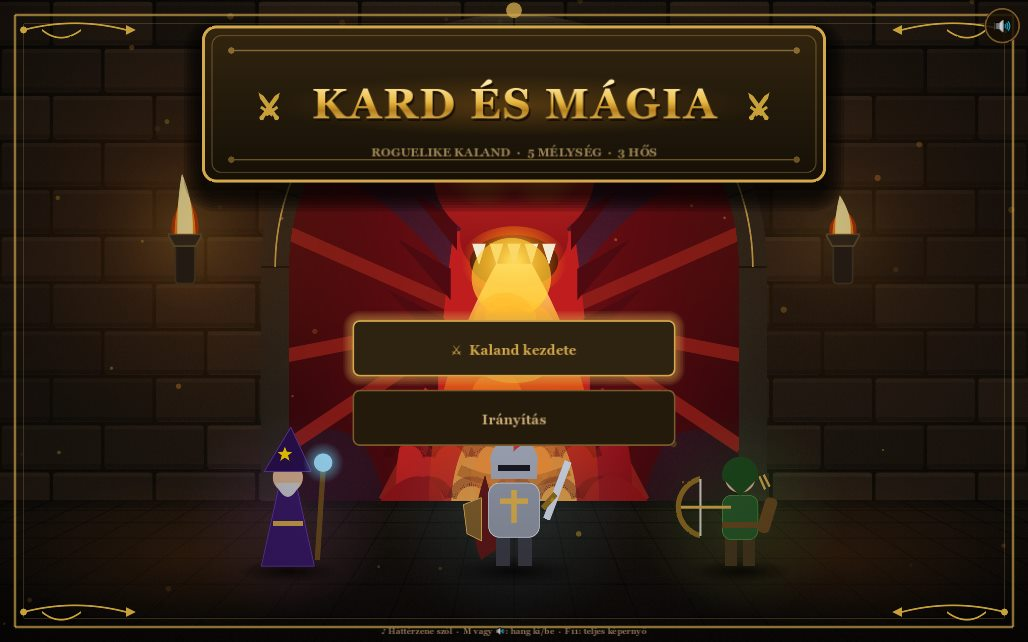
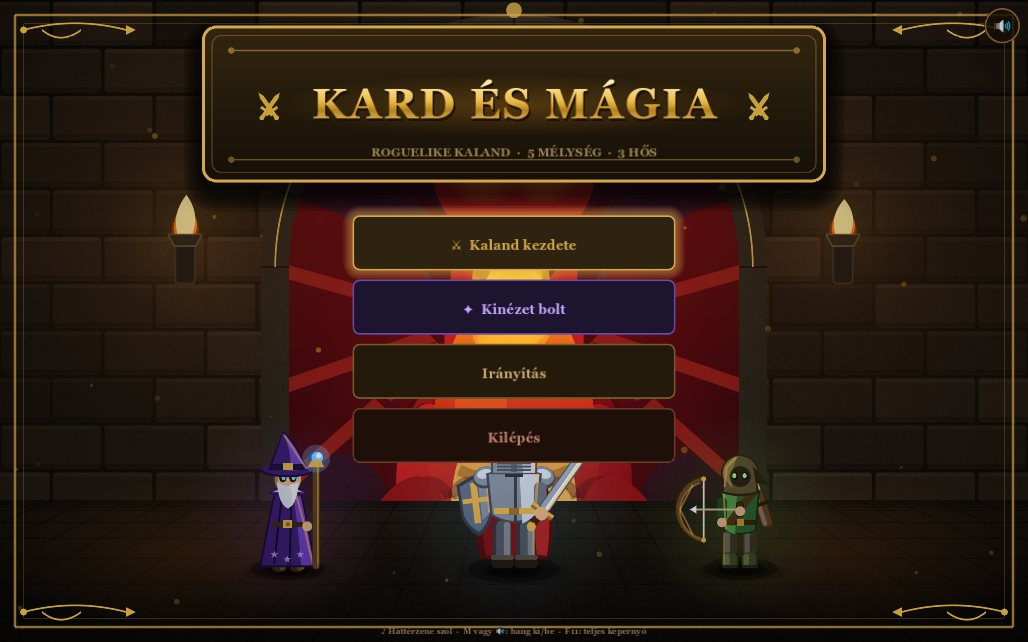
Weboldal: friss Kard és Mágia-képek (menü, hősválasztó, kinézet bolt)

diff --git a/docs/index.html b/docs/index.html
@@ -218,6 +218,7 @@
 				<figure><button class="shot" data-full="kepek/hep_anglia.jpg"><img src="kepek/hep_anglia.jpg" alt="Heptarchia" loading="lazy" width="1024" height="720"></button><figcaption data-i18n="shot.hep2">Heptarchia – Wessex, Mercia és Kelet-Anglia</figcaption></figure>
 				<figure><button class="shot" data-full="kepek/hep_rusz.jpg"><img src="kepek/hep_rusz.jpg" alt="A varégok útja" loading="lazy" width="1024" height="720"></button><figcaption data-i18n="shot.hep3">A varégok útja – Novgorodtól Kijevig</figcaption></figure>
 				<figure><button class="shot" data-full="kepek/kard_play.jpg"><img src="kepek/kard_play.jpg" alt="Kard és Mágia" loading="lazy" width="1028" height="642"></button><figcaption data-i18n="shot.kard">Kard és Mágia – válassz hőst</figcaption></figure>
+				<figure><button class="shot" data-full="kepek/kard_bolt.jpg"><img src="kepek/kard_bolt.jpg" alt="Kard és Mágia" loading="lazy" width="1028" height="642"></button><figcaption data-i18n="shot.kardbolt">Kard és Mágia – kinézet bolt</figcaption></figure>
 				<figure><button class="shot" data-full="kepek/bir_csata.jpg"><img src="kepek/bir_csata.jpg" alt="Birodalom" loading="lazy" width="1028" height="749"></button><figcaption data-i18n="shot.bir1">Birodalom – csata a 15. században</figcaption></figure>
 				<figure><button class="shot" data-full="kepek/bir_modern.jpg"><img src="kepek/bir_modern.jpg" alt="Birodalom" loading="lazy" width="1028" height="749"></button><figcaption data-i18n="shot.bir2">Birodalom – a világháborúk kora</figcaption></figure>
 				<figure><button class="shot" data-full="kepek/bir_tenger.jpg"><img src="kepek/bir_tenger.jpg" alt="Birodalom" loading="lazy" width="1028" height="749"></button><figcaption data-i18n="shot.bir3">Birodalom – tengeri csata a kalózkorban</figcaption></figure>
@@ -314,7 +315,7 @@
 			"games.kard.desc": "Knight, mage or archer: fight down five depths to the Dragon. The knight is strong in melee, the archer deals damage from afar, the mage casts a blue arcane orb. Every level is always passable.",
 			"shots.title": "Screenshots", "shots.sub": "Click a picture to enlarge it.",
 			"shot.hep1": "Heptarchia – the British Isles in 790", "shot.hep2": "Heptarchia – Wessex, Mercia and East Anglia",
-			"shot.hep3": "The Varangian Road – from Novgorod to Kiev", "shot.kard": "Kard és Mágia – choose your hero",
+			"shot.hep3": "The Varangian Road – from Novgorod to Kiev", "shot.kard": "Kard és Mágia – choose your hero", "shot.kardbolt": "Kard és Mágia – cosmetics shop",
 			"shot.bir1": "Birodalom – a battle in the 15th century", "shot.bir2": "Birodalom – the age of the world wars",
 			"shot.bir3": "Birodalom – a naval battle in the age of pirates",
 			"dlc.title": "Add-ons for Heptarchia",
@@ -352,7 +353,7 @@
 			"games.kard.desc": "Ritter, Magier oder Bogenschütze: Kämpfe dich durch fünf Tiefen bis zum Drachen. Der Ritter ist im Nahkampf stark, der Bogenschütze trifft aus der Ferne, der Magier schleudert eine blaue Zauberkugel. Jede Ebene ist immer begehbar.",
 			"shots.title": "Bilder aus den Spielen", "shots.sub": "Klicke auf ein Bild, um es zu vergrößern.",
 			"shot.hep1": "Heptarchia – die Britischen Inseln im Jahr 790", "shot.hep2": "Heptarchia – Wessex, Mercia und Ostanglien",
-			"shot.hep3": "Der Warägerweg – von Nowgorod bis Kiew", "shot.kard": "Kard és Mágia – wähle deinen Helden",
+			"shot.hep3": "Der Warägerweg – von Nowgorod bis Kiew", "shot.kard": "Kard és Mágia – wähle deinen Helden", "shot.kardbolt": "Kard és Mágia – Aussehen-Shop",
 			"shot.bir1": "Birodalom – eine Schlacht im 15. Jahrhundert", "shot.bir2": "Birodalom – die Zeit der Weltkriege",
 			"shot.bir3": "Birodalom – eine Seeschlacht im Zeitalter der Piraten",
 			"dlc.title": "Erweiterungen für Heptarchia",
